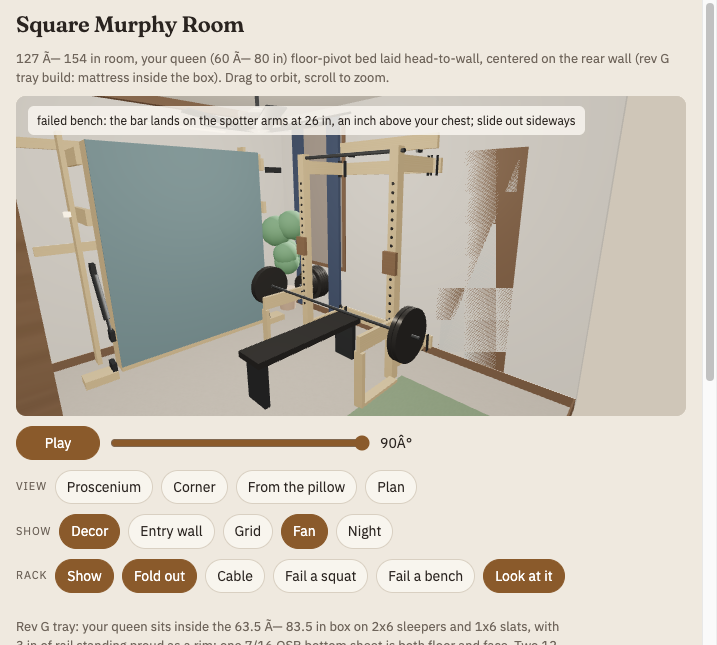
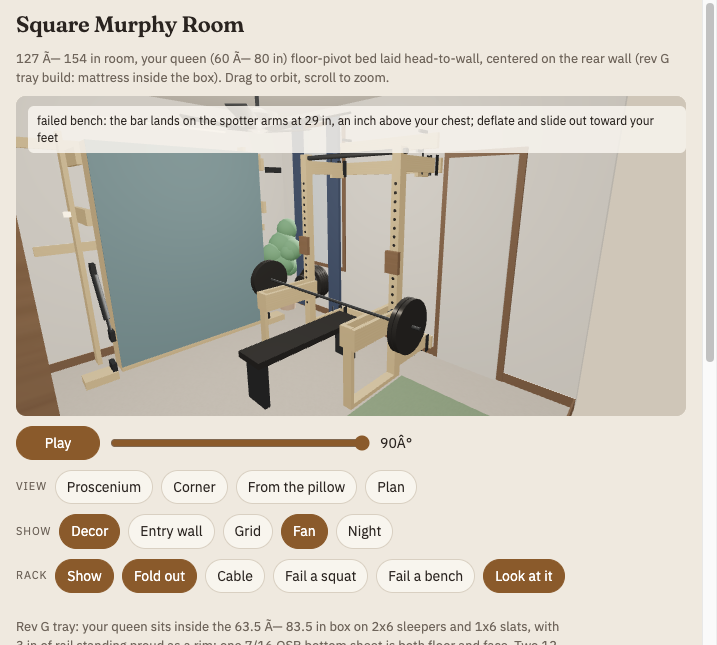
Rack: apply the independent review (24 in double-cheek arms, drop pins, 1-1/2 pipe, hinge tail, pads)
Generated with [Claude Code](https://claude.ai/code)
via [Happy](https://happy.engineering)

diff --git a/murphy-k7x2/g/rack/index.html b/murphy-k7x2/g/rack/index.html
@@ -30,14 +30,14 @@ ul,ol{padding-left:20px}
 
 <h2>0. What saves you when a lift fails (revised 23 Nov, afternoon)</h2>
 <p><b>The first version of this page was wrong about this.</b> It had one 2x6 plank across the post fronts on pins and called it the safety. The J-blocks are on the room side of the posts, so you unrack and step back into the room; a squat then descends 6 to 10 in in front of the post plane and a bench bar sits 8 to 12 in in front of it. The plank was in the post plane. The bar misses it. A power rack catches you because its safeties run front to back under the whole bar path; this rack has no depth on the room side, so it needs spotter arms.</p>
-<p><b>Spotter arms, with the load carried to the floor.</b> On each post: a 2x6 x 23.5 in arm on edge, lapping the post's outside face and bolted through two of the post holes with 1/2 in bolts, projecting 20 in in front of the post. A 2x4 leg from the arm's tip straight down to a 2x4 x 20 in foot bolted to the post base. A dropped bar lands on the arm, goes down the leg into the foot and the floor. The post sees almost no bending; the top hinge sees about 80 lb (a 300 lb drop at 20 in is 6,000 lb-in, resisted by the gate arms 73 in apart). Arms and feet fold with the posts and stay inside the post's footprint against the wall. Set the arms 2 in below your squat bottom, 1 in above your chest for bench; the lowest hole is now 18 in so a bench arm can sit at 25 in.</p>
-<div class="two"><div><img src="fail_squat.png" alt="Failed squat: bar resting on the spotter arms in front of the posts"><div style="color:var(--mute);font-size:13px">Failed squat: the bar comes off the J-blocks, moves out in front of the posts, descends, and lands on the arms at 44 in. You walk out from under it.</div></div>
-<div><img src="fail_bench.png" alt="Failed bench: bar resting on the spotter arms above the bench"><div style="color:var(--mute);font-size:13px">Failed bench: bench slid in head-first between the arms; the bar lands on the arms at 26 in, an inch above the chest. You slide out sideways.</div></div></div>
+<p><b>Spotter arms, with the load carried to the floor (as revised by the independent review, section 11).</b> On each post: two 2x8 x 27.5 in cheeks, one on each face of the post, bolted through two of the post holes with 1/2 in bolts 4.75 in apart so the bolts are in double shear, projecting 24 in in front of the post. A 2x4 leg, one length with holes every 1.5 in, pinned between the cheek tips at whichever hole puts its foot on the floor, standing on a 2x4 x 24 in foot pinned to the post base. A dropped bar lands on the cheeks, goes down the leg into the foot and the floor. The arms, leg and foot come off (four pins) and hang on hooks above the stringer when the rack folds. Set the arms 2 in below your squat bottom (36 in bottom, 43 in top) and 1 in above your chest for bench (21 in bottom, 28 in top). Arm holes are drilled for 1.5 in steps.</p>
+<div class="two"><div><img src="fail_squat.png" alt="Failed squat: bar resting on the spotter arms in front of the posts"><div style="color:var(--mute);font-size:13px">Failed squat: the bar comes off the J-blocks, moves 12 in out in front of the posts, descends, and lands on the 24 in arms at 44 in. You walk out from under it.</div></div>
+<div><img src="fail_bench.png" alt="Failed bench: bar resting on the spotter arms above the bench"><div style="color:var(--mute);font-size:13px">Failed bench: bench slid in head-first between the arms; the bar lands on the arms at 29 in, an inch above the chest. You deflate and slide out toward your feet.</div></div></div>
 <p>Both are animated in the room model: Rack, then "Fail a squat" or "Fail a bench". The plank survives only as the knee hold-down for the cable pulldown.</p>
 
 <h2>0b. Where everything lives when the rack is folded</h2>
 <img src="rack_stored.png" alt="Rack folded with plates on a peg under the window and the bar upright in the corner">
-<div style="color:var(--mute);font-size:13px;margin:4px 0 12px">Folded: posts, arms, legs and feet flat against the wall, 5 in deep. Plates on one 14 in peg under the window (360 lb on two lags, the cabinet goes elsewhere). Bar and pull-up pipe upright in the rear-right corner in a PVC floor cup with a clip at 78 in; that corner is free with the bed up or down. The plank on two hooks above the top stringer, 85 in up. Nothing on the floor.</div>
+<div style="color:var(--mute);font-size:13px;margin:4px 0 12px">Folded: posts flat against the wall, 5 in deep, 3 in apart (gate arms are 19 in for that). The spotter cheeks, legs and feet hang on a second pair of hooks above the plank. Plates on one 14 in peg under the window (360 lb on two lags, the cabinet goes elsewhere). Bar and pull-up pipe upright in the rear-right corner in a PVC floor cup with a clip at 78 in; that corner is free with the bed up or down. The plank on two hooks above the top stringer, 85 in up. Nothing on the floor.</div>
 
 <div class="two"><div><img src="rack_out.png" alt="Rack folded out with the bar racked, bed standing"><div class="m" style="color:var(--mute);font-size:13px">Out: bar on the J-blocks at 54 in, safety at 34 in, pull-up pipe at 82 in. Bed standing on the left.</div></div>
 <div><img src="rack_folded.png" alt="Rack folded flat against the right wall"><div class="m" style="color:var(--mute);font-size:13px">Folded: both posts swing inward and lie flat between the hinge lines, 5 in off the wall.</div></div></div>
@@ -56,18 +56,18 @@ ul,ol{padding-left:20px}
 <div class="wrap"><table>
 <tr><th>Part</th><th>Stock</th><th>Qty</th><th>Size</th><th>Notes</th></tr>
 <tr><td>Stringers</td><td>2x6</td><td>2</td><td>54 in</td><td>flat on the wall at 76 and 3 in (top edges 81.5 and 8.5); two 3/8 x 4 lags into every stud they cross (3 or 4 studs)</td></tr>
-<tr><td>Arms</td><td>2x6</td><td>4</td><td>21 in</td><td>on edge; hinge end bored 1/2 in for the pivot bolt, post end screwed and glued to the 4x4 with four 3 in screws</td></tr>
+<tr><td>Gate arms</td><td>2x6</td><td>4</td><td>21.25 in (19 in from pin to post plus a 2 in rounded tail)</td><td>on edge; pivot hole 2 in from the tail end with a 1/2 in ID steel sleeve (a short 3/8 pipe nipple) driven in so the pine does not oval; post end screwed and glued to the 4x4 with four 3 in screws; drop-pin hole 6 in from the pin</td></tr>
 <tr><td>Posts</td><td>4x4</td><td>2</td><td>84 in</td><td>1-1/16 in holes every 3 in from 18 to 72 in on the room face, 1-3/8 in notch at the top for the pipe; SE 59th gives away fence posts, otherwise $10 each new</td></tr>
-<tr><td>Hinge plates</td><td>1-1/2 x 1/8 in angle (the same bed frame)</td><td>8</td><td>7.5 in</td><td>two per hinge, one each side of the arm, bolted to the stringer end with two 3/8 x 3 bolts; the arm pivots between them on a 1/2 x 4 bolt with a nylock</td></tr>
-<tr><td>Stop blocks</td><td>2x4</td><td>4</td><td>6 in</td><td>screwed to the stringer each side of each top arm's square position; one carries the barrel-bolt hole</td></tr>
-<tr><td>Barrel bolts</td><td>4 in zinc</td><td>2</td><td></td><td>on the top arms, shoot into the stop block</td></tr>
-<tr><td>J-blocks</td><td>2x6</td><td>2</td><td>8 in</td><td>1-3/8 in notch sawn in the top edge for the bar; hang on two 3/4 in pins through block and post</td></tr>
+<tr><td>Hinge plates</td><td>1-1/2 x 1/8 in angle (the same bed frame)</td><td>8</td><td>7.5 in</td><td>two per hinge, one each side of the arm, bolted to the stringer end with two 3/8 x 3 bolts; the arm pivots between them on a 1/2 x 4 bolt with a nylock, pin 2-1/4 in off the stringer face</td></tr>
+<tr><td>Stop blocks</td><td>2x4</td><td>4</td><td>7.5 in</td><td>screwed to the stringer face beside each arm's square position, top and bottom; drilled 9/16 in vertically in line with the arm hole</td></tr>
+<tr><td>Drop pins (gate lock)</td><td>1/2 x 8 in steel pin with a ring</td><td>4</td><td></td><td>drop vertically through the arm into the stop block, top and bottom arm of each gate; gravity-held and visible, so a forgotten lock is obvious; replaces the barrel bolts</td></tr>
+<tr><td>J-blocks</td><td>2x6</td><td>2</td><td>8 in</td><td>1-3/8 in notch sawn in the top edge for the bar, lined with 1/8 in UHMW or stall-mat rubber; hang on two 3/4 in pins through block and post, pins at least 2 in below the notch bottom; a wear part</td></tr>
 <tr><td>Spotter arms</td><td>2x6</td><td>2</td><td>23.5 in</td><td>on edge, lapping the post's outside face by 3.5 in, two 1/2 x 5 in bolts through the post holes, 20 in projecting; set 2 in below your squat bottom or 1 in above your chest</td></tr>
 <tr><td>Spotter legs</td><td>2x4</td><td>2</td><td>cut to the arm height (about 20 in bench, 38 in squat; make two pairs)</td><td>under the arm tip, screwed to the arm and the foot; carries the dropped bar to the floor</td></tr>
 <tr><td>Feet</td><td>2x4</td><td>2</td><td>20 in</td><td>flat on the floor, bolted to the post base with a 3/8 x 5 in bolt; fold with the post</td></tr>
 <tr><td>Knee-pad plank (cable only)</td><td>2x6</td><td>1</td><td>50 in</td><td>on edge across the post fronts on the 26 in pins, wrapped in pipe insulation; a 13/16 in hole 3 in from each end drops over the pins</td></tr>
 <tr><td>Pins</td><td>3/4 in cold-rolled bar</td><td>6</td><td>6 in</td><td>one 36 in bar cut in six; 1-1/16 in holes give the 3/4 pins play; 4 for the J-blocks, 2 for the plank</td></tr>
-<tr><td>Pull-up bar</td><td>1-1/4 in schedule 40 black pipe</td><td>1</td><td>54 in</td><td>drops into the post-top notches; 1 in pipe is marginal at 300 lb mid-span, 1-1/4 is not</td></tr>
+<tr><td>Pull-up bar</td><td>1-1/2 in schedule 40 black pipe (1.9 in OD)</td><td>1</td><td>54 in</td><td>drops into 2 in wide, 2 in deep notches in the post tops with a 3/8 in pin through the cheeks over it; 1-1/4 pipe reaches yield under a 250 lb kipping pull-up (about 625 lb mid-span)</td></tr>
 <tr><td>Lags and bolts</td><td></td><td></td><td></td><td>16 x 3/8 x 4 lags, 4 x 1/2 x 4 bolts with nylocks and washers, 16 x 3/8 x 3 bolts with nuts for the plates, 3 in screws</td></tr>
 </table></div>
 
@@ -76,12 +76,15 @@ ul,ol{padding-left:20px}
 <tr><th>Check</th><th>Result</th></tr>
 <tr><td>Rated bar load</td><td>500 lb on the J-blocks (250 lb per post). The 4x4 in compression is good for several thousand pounds; the limit is the pins</td></tr>
 <tr><td>3/4 in pin, 250 lb at 1.5 in cantilever</td><td>375 lb-in, 9 ksi bending, yield 50 ksi. Bearing on the 4x4: 48 psi against 600 psi allowable</td></tr>
-<tr><td>Pull-up pipe, 300 lb mid-span, 48 in</td><td>1-1/4 sched 40: 15 ksi against 30 ksi yield. 1 in sched 40 would be 27 ksi, too close</td></tr>
-<tr><td>Spotter arm, 300 lb dropped at the tip</td><td>The leg takes it: a 2x4 in compression at 300 lb is at about 60 psi against 1,000 allowable. The two arm bolts see the small couple left over, under 200 lb each. The top hinge sees about 80 lb. Without the leg the post would see 840 psi static, double on impact, which is why the leg is not optional</td></tr>
+<tr><td>Pull-up pipe, kipping pull-up (2.5 x 250 lb = 625 lb mid-span, 48 in)</td><td>1-1/2 sched 40: 7,500 lb-in over S = 0.326 in³ is 23 ksi against 30 ksi yield. 1-1/4 would be 32 ksi, at yield; 1 in would bend</td></tr>
+<tr><td>Spotter arm, 300 lb dropped at the tip, with the leg</td><td>The leg takes it: a 2x4 in compression carries 1,500 lb at 40 in. The bolt pair sees the leftover, a few hundred pounds in double shear against about 600 lb allowable per bolt. Hinge load is trivial</td></tr>
+<tr><td>Spotter arm, 300 lb dropped at 20 in, leg forgotten</td><td>Bolt pair sees a 3,000 lb couple: failure, and the 2x6 would split out at the lower bolt. This is why the cheeks are 2x8, doubled, with the bolts 4.75 in apart in double shear, and why the leg is one length that fits every height, so there is no excuse to skip it</td></tr>
+<tr><td>Hinge bearing, 300 lb</td><td>400 psi on the wood, 2,400 psi on the two 1/8 in plates: fine. The 2 in tail and the steel sleeve stop the pin tearing out along the grain or ovalling the hole</td></tr>
+<tr><td>Carpet under the posts</td><td>20 psi, no problem, but the pad compresses 1/4 in before it bottoms, which would hand the bar load to the hinge bolts. The 6 x 6 plywood pads stop that</td></tr>
 <tr><td>Old cross plank as a safety</td><td>Does not catch a bar lifted in front of the posts. Demoted to the cable knee pad</td></tr>
 <tr><td>Hinge bolt, 1/2 in in double shear</td><td>several thousand pounds; sees under 150 lb from racking or kipping</td></tr>
 <tr><td>Stringer lags</td><td>6 to 8 lags per stringer at about 500 lb withdrawal each in a dry stud; worst case is a 200 lb kipping pull-up, under 150 lb sideways</td></tr>
-<tr><td>Fold geometry</td><td>Posts swing inward 90 deg; folded posts lie at 55 to 79 and 79 to 103 in along the wall, 5 in deep. Nothing in the swing path once the cabinet is moved</td></tr>
+<tr><td>Fold geometry</td><td>Posts swing inward 90 deg on 19 in arms; folded posts lie at 74 to 77.5 and 80.5 to 84 in along the wall, 3 in apart, 5 in deep (21 in arms would have overlapped by an inch). Spotter cheeks, legs and feet come off first; they would overlap each other folded</td></tr>
 <tr><td>Bed clash</td><td>Rack out: the bar runs along the right wall 28 in off it, so its plates reach 99 in from the left wall; the bed box edge is at 95 in, 4 in short of the plates with the bed down and 30 in short of the standing bed. Rack folded: 5 in deep, 27 in outside the bed box's edge. Checked in the room model at every bed angle; neither state touches the bed, and the out state is only used with the bed up anyway</td></tr>
 <tr><td>Fan</td><td>The rack is 60 in from the fan centre; overhead press inside the rack is clear of the 86 in glass only below the bar height, so press outside the fan's 20 in radius, which the rack position already does</td></tr>
 <tr><td>Bar length</td><td>7 ft bar overhangs the posts 18 in each side, 37 to 121 in from the entry wall; the closet door casing ends at 51 and the window glass is on the wall, so neither is touched</td></tr>
@@ -136,6 +139,21 @@ ul,ol{padding-left:20px}
 <div class="card"><b>$130 7 ft bar with a pair of Olympic dumbbell handles, OKC</b><a href="https://www.facebook.com/marketplace/item/1184167733944523/">facebook.com/marketplace/item/1184167733944523</a></div>
 <div class="card"><b>$1 to $3 cable machine pulleys, 90 mm, Warr Acres</b><div class="m">The cheapest way to the DIY cable: two with brackets for $6.</div><a href="https://www.facebook.com/marketplace/item/1544415880705942/">facebook.com/marketplace/item/1544415880705942</a></div>
 <p style="color:var(--mute);font-size:13px">A sensible first buy: the Yukon Weider set ($150, bar plus 198 lb) or the Edmond CAP pieces ($200, bar plus 180 lb), plus the Warr Acres pulleys. Rack, bar, 200 lb, cable and bands together land around $300 to $350.</p>
+
+<h2>11. Independent review, 23 Nov (Fable), and what changed</h2>
+<p>Verdict as submitted: <b>not as drawn</b>. "The concept is sound, but five details would let a real failure hurt someone." Every item below is now in the cut list and the model.</p>
+<div class="wrap"><table>
+<tr><th>Finding</th><th>Change made</th></tr>
+<tr><td>20 in arms are marginal: a two-step walkout puts the bar 18 to 26 in out, a bench "roll of shame" 16 to 22 in. Bench arm top at 25 in was below a lying adult's chest (26 to 28 in)</td><td>24 in projection (27.5 in cheeks, what commercial half-rack arms use); holes for 1.5 in steps; bench arm now 21 to 28 in</td></tr>
+<tr><td>Without the leg the single 2x6 arm's bolt pair sees a 3,000 lb couple and the lower bolt is 1.25 in from the loaded edge: it splits out. A leg cut to one height will be skipped at the other</td><td>2x8 cheeks on both faces of the post, bolts in double shear 4.75 in apart; one 44 in leg with holes every 1.5 in fits every arm height</td></tr>
+<tr><td>Hinge pin at the arm's end has zero end distance along the grain; pine pin holes oval with folding</td><td>2 in rounded tail past the pin, pin moved to 2-1/4 in off the stringer, 1/2 in ID steel sleeve driven into each arm</td></tr>
+<tr><td>Barrel bolts: two fixed blocks cannot bracket an inward-swinging arm; the pipe does not stop both gates parallelogramming; a forgotten bolt lets an off-centre re-rack swing the gate and drop the bar</td><td>Vertical drop pins through arm and stop block, top AND bottom arm of each gate, gravity-held and visible</td></tr>
+<tr><td>1-1/4 in pipe is 1.66 in OD, so a 1-3/8 notch does not fit it; at a kipping pull-up (about 625 lb mid-span) it is at yield</td><td>1-1/2 in sched 40 (1.9 in OD, 23 ksi), 2 x 2 in notch, 3/8 in pin over the pipe</td></tr>
+<tr><td>Carpet pad compresses 1/4 in before it bottoms, handing the bar load to the hinge bolts</td><td>6 x 6 x 3/4 in plywood pad under each post</td></tr>
+<tr><td>J-block notch will groove and chew knurl; block can shear along the grain if the pins are close under the notch</td><td>Notch lined with UHMW or stall-mat rubber; pins at least 2 in below the notch; treated as a wear part</td></tr>
+<tr><td>Folded clearance not verified: arms, legs and feet overlap along the wall</td><td>Checked: with 21 in gate arms the two folded posts overlapped by 1 in. Gate arms are now 19 in (posts 3 in apart); spotter assemblies come off and hang above the stringer</td></tr>
+</table></div>
+<p style="color:var(--mute);font-size:13px">Numbers quoted from the reviewer: hinge bearing 400 psi wood and 2,400 psi plate; 2x4 leg 1,500 lb capacity at 40 in; bolt pair without a leg 3,000 lb each against about 600 lb allowable; 1-1/2 pipe S = 0.326 in³. Single-arm drop with the leg: post twist about 2.5 in times 450 lb, trivial.</p>
 
 <h2>10. Bed material listings, re-checked 23 Nov 11:05</h2>
 <p>All still live: Newalla 2x10s at $15, the free pergola lot, the $10 OSB, both bed frames, the $4 2x6 lot, the SE 59th fence pile, and the new Moore and Bethany free piles. Full list on the <a href="../sourcing/">sourcing page</a>.</p>

diff --git a/murphy-k7x2/g/index.html b/murphy-k7x2/g/index.html
@@ -54,7 +54,7 @@ input[type=range]{width:min(260px,60vw);accent-color:var(--accent)}
   <div class="group"><span class="lbl">Rack</span>
     <button id="t-rack" class="on">Show</button><button id="t-rackout">Fold out</button><button id="t-cable">Cable</button><button id="b-fsquat">Fail a squat</button><button id="b-fbench">Fail a bench</button><button id="v-rack">Look at it</button></div>
 </div>
-<p class="facts">Rev G tray: your queen sits inside the 63.5 × 83.5 in box on 2x6 sleepers and 1x6 slats, with 3 in of rail standing proud as a rim; one 7/16 OSB bottom sheet is both floor and face. Two 12 V linear actuators lift it. Bed down reaches <b>102.5 in</b> from the rear wall and leaves <b>51.5 in</b> to the entry wall. Standing it is <b>86 in</b> tall and <b>25 in</b> deep. The swing's highest point (86 in) is 21 in from the rear wall; under the fan it passes 18 in below the light glass (86 in) and 12 in below the 20 in blade tips. No headboard; the rails are the rim. Door and window positions are Meciah's tape measurements of 15 Nov 2026; the window's height is still assumed. <b>Squat rack:</b> a gate-style fold-flat rack on the right wall between the closet door and the window: two 4x4 posts on 21 in 2x6 arms that swing on 1/2 in hinge bolts from two 2x6 stringers lagged to the studs. Folded it is 5 in off the wall; out, the bar sits 28 in off the wall and 102 in from the rear wall, clear of the standing bed and the window. Use it with the bed up only. <b>Cable:</b> one DIY setup is drawn, a lat pulldown: pulley 1 under the pull-up pipe, pulley 2 on a bracket off the top stringer, the loading pin and plates hanging against the wall, your flat bench inside the rack. In cable mode the safety drops to the 26 in pins and wears a length of pipe insulation: that is the knee hold-down, like the pad on a gym pulldown. The loading pin rests on the floor between sets so plates go on standing up. Move pulley 2 to the bottom arm pin for a low row. Blue comforter and blue blackout curtains added; the rack stringers stop at 104 in so the stacked curtain clears them. <b>What saves you:</b> spotter arms, not the plank. Each post carries a 2x6 arm bolted through two of its holes, with a 2x4 leg down to a 2x4 foot at the post base, so a dropped bar goes arm, leg, floor. Press "Fail a squat" or "Fail a bench" to watch the bar come off the J-blocks, move out in front of the posts and land on the arms. <b>Storage, rack folded:</b> plates on a 14 in peg under the window, bar and pull-up pipe upright in the rear-right corner in a floor cup with a clip at 78 in, the plank on two hooks above the top stringer. The spotter arms, legs and feet fold with the posts.</p>
+<p class="facts">Rev G tray: your queen sits inside the 63.5 × 83.5 in box on 2x6 sleepers and 1x6 slats, with 3 in of rail standing proud as a rim; one 7/16 OSB bottom sheet is both floor and face. Two 12 V linear actuators lift it. Bed down reaches <b>102.5 in</b> from the rear wall and leaves <b>51.5 in</b> to the entry wall. Standing it is <b>86 in</b> tall and <b>25 in</b> deep. The swing's highest point (86 in) is 21 in from the rear wall; under the fan it passes 18 in below the light glass (86 in) and 12 in below the 20 in blade tips. No headboard; the rails are the rim. Door and window positions are Meciah's tape measurements of 15 Nov 2026; the window's height is still assumed. <b>Squat rack:</b> a gate-style fold-flat rack on the right wall between the closet door and the window: two 4x4 posts on 21 in 2x6 arms that swing on 1/2 in hinge bolts from two 2x6 stringers lagged to the studs. Folded it is 5 in off the wall; out, the bar sits 28 in off the wall and 102 in from the rear wall, clear of the standing bed and the window. Use it with the bed up only. <b>Cable:</b> one DIY setup is drawn, a lat pulldown: pulley 1 under the pull-up pipe, pulley 2 on a bracket off the top stringer, the loading pin and plates hanging against the wall, your flat bench inside the rack. In cable mode the safety drops to the 26 in pins and wears a length of pipe insulation: that is the knee hold-down, like the pad on a gym pulldown. The loading pin rests on the floor between sets so plates go on standing up. Move pulley 2 to the bottom arm pin for a low row. Blue comforter and blue blackout curtains added; the rack stringers stop at 104 in so the stacked curtain clears them. <b>What saves you:</b> spotter arms, not the plank. Each post carries a pair of 2x8 cheeks, one on each face, bolted through two of its holes with the bolts in double shear and projecting 24 in, plus a 2x4 leg from the arm tip to a foot at the post base, so a dropped bar goes arm, leg, floor. Gate locks are vertical drop pins top and bottom. Pull-up pipe is 1-1/2 in schedule 40, pinned in a 2 in notch. These are the fixes from the 23 Nov independent review. Press "Fail a squat" or "Fail a bench" to watch the bar come off the J-blocks, move out in front of the posts and land on the arms. <b>Storage, rack folded:</b> plates on a 14 in peg under the window, bar and pull-up pipe upright in the rear-right corner in a floor cup with a clip at 78 in, the plank on two hooks above the top stringer. The spotter arms, legs and feet fold with the posts.</p>
 
 <script src="https://cdnjs.cloudflare.com/ajax/libs/three.js/r128/three.min.js"></script>
 <script>
@@ -194,33 +194,39 @@ const grid=new THREE.Group(); scene.add(grid); grid.visible=false;
 
 // ---------- fold-flat squat rack on the right wall (gate style: each post swings on a hinge line at the wall) ----------
 const rack=new THREE.Group(); scene.add(rack);
-const rkY=[55,103], rkArm=21, rkPost=3.5, rkStrY0=52, rkStrL=52;   /* stringers 52 to 104: the curtain stack starts at 105 */
+const rkY=[55,103], rkArm=19, rkPost=3.5, rkStrY0=52, rkStrL=52;   /* 19 in gate arms: folded posts sit at 74-77.5 and 80.5-84, 3 in apart (21 in arms overlapped by 1 in) */   /* stringers 52 to 104: the curtain stack starts at 105 */
 [76,3].forEach(z=>box(rack, R.X-1.5,rkStrY0,z, 1.5,rkStrL,5.5, M.pine));          // two 2x6 x 54 in stringers, lagged into every stud
-const gates=rkY.map((hy,i)=>{ const g=new THREE.Group(); g.position.copy(P(R.X-3.25,hy,0)); rack.add(g);   /* hinge pin 1-3/4 in off the stringer face so the folded post clears the stringer */
+const lockBlocks=[]; const gates=rkY.map((hy,i)=>{ const g=new THREE.Group(); g.position.copy(P(R.X-3.75,hy,0)); rack.add(g);   /* hinge pin 2-1/4 in off the stringer face: room for the arm's 2 in tail; folded post clears the stringer */
   const L=(x,y,z,dx,dy,dz,m)=>box(g, x,y,z, dx,dy,dz, m);                         /* local plan coords, hinge at the origin, the room is toward -x */
-  [76,3].forEach(z=>L(-rkArm,-0.75,z, rkArm,1.5,5.5, M.pine));                    /* 2x6 x 21 in arms, top and bottom */
+  [76,3].forEach(z=>L(-rkArm,-0.75,z, rkArm+2.25,1.5,5.5, M.pine));               /* 2x6 arms with a 2 in rounded tail past the hinge pin */
   L(-rkArm-rkPost,-rkPost/2,0, rkPost,rkPost,84, M.pine);                           /* 4x4 x 84 in post, standing on the floor */
   for(let z=18;z<=72;z+=3){ const h=new THREE.Mesh(new THREE.CylinderGeometry(0.55,0.55,rkPost+0.3,10),M.black); h.rotation.z=Math.PI/2; h.position.copy(P(-rkArm-rkPost/2,0,z)); g.add(h); }   /* 1-1/16 in pin holes every 3 in, 18 to 72 */
   g.userData.j=L(-rkArm-rkPost-1.5,-2.75,49, 1.5,5.5,8, M.walnut);                    /* 2x6 J-block hung on two pins; height set per lift */
-  [76,3].forEach(z=>{ const k=new THREE.Mesh(new THREE.CylinderGeometry(0.4,0.4,7.5,10),M.steel); k.position.copy(P(0,0,z+2.75)); g.add(k); L(0,-2,z-1, 1.75,0.25,7.5, M.steel); L(0,1.75,z-1, 1.75,0.25,7.5, M.steel); });   /* 1/2 in hinge bolt through two bed-frame angle plates */
-  g.userData.dir = i===0? -1 : 1; return g; });
+  [76,3].forEach(z=>{ const k=new THREE.Mesh(new THREE.CylinderGeometry(0.4,0.4,7.5,10),M.steel); k.position.copy(P(0,0,z+2.75)); g.add(k); L(0,-2,z-1, 2.25,0.25,7.5, M.steel); L(0,1.75,z-1, 2.25,0.25,7.5, M.steel); });   /* 1/2 in hinge bolt through two bed-frame angle plates */
+  g.userData.dir = i===0? -1 : 1;
+  [76,3].forEach(z=>{ const pin=new THREE.Mesh(new THREE.CylinderGeometry(0.3,0.3,9,10),M.steel); pin.position.copy(P(-6,0,z+2.75+1)); g.add(pin); });   /* 1/2 in drop pins through arm and stop block, gravity-held and visible */
+  [76,3].forEach(z=>box(rack, R.X-3.75-7.5, hy+(i===0?0.75:-2.25), z-1.5, 7.5,1.5,1.5, M.pine));   /* 2x4 stop blocks on the stringer face beside the arms' square position, drilled for the drop pins */
+  return g; });
 const rackLoad=new THREE.Group(); rack.add(rackLoad);
-const rkPostX=R.X-3.25-rkArm-rkPost, barX=rkPostX-1.5+0.6, barY=79;
+const rkPostX=R.X-3.75-rkArm-rkPost, barX=rkPostX-1.5+0.6, barY=79;
 const barGrp=new THREE.Group(); rackLoad.add(barGrp);
 { const bar=new THREE.Mesh(new THREE.CylinderGeometry(0.55,0.55,84,14),M.steel); bar.rotation.x=Math.PI/2; barGrp.add(bar);
   for(const dy of [-38.5,-36.8,36.8,38.5]){ const pl=new THREE.Mesh(new THREE.CylinderGeometry(8.85,8.85,1.4,28),M.black); pl.rotation.x=Math.PI/2; pl.position.set(0,0,-dy); pl.castShadow=true; barGrp.add(pl); } }   /* bar with four 45s */
 function placeBar(x,z){ barGrp.position.copy(P(x,barY,z)); }
 function setJ(jz){ gates.forEach(g=>{ g.userData.j.position.y=jz+4; }); }
 const safety=box(rackLoad, rkPostX-1.5, rkY[0]+rkPost/2, 26, 1.5,rkY[1]-rkY[0]-rkPost,5.5, M.pine); safety.visible=false;   /* the 2x6 cross plank is the cable knee pad only; it does not catch a bar lifted in front of the posts */
-const pu=new THREE.Mesh(new THREE.CylinderGeometry(0.67,0.67,rkY[1]-rkY[0]+6,12),M.steel); pu.rotation.x=Math.PI/2; pu.position.copy(P(rkPostX+rkPost/2,barY,82.5)); rackLoad.add(pu);   /* 1-1/4 in pipe pull-up bar */
+const pu=new THREE.Mesh(new THREE.CylinderGeometry(0.95,0.95,rkY[1]-rkY[0]+6,12),M.steel); pu.rotation.x=Math.PI/2; pu.position.copy(P(rkPostX+rkPost/2,barY,82.5)); rackLoad.add(pu);   /* 1-1/2 in sched 40 pipe (1.9 OD) in a 2 x 2 in notch, pinned */
 /* spotter arms: on each gate, a 2x6 x 23.5 in arm lapping the post's outside face, bolted through two post holes, a 2x4 leg from its tip to a 2x4 x 20 in foot bolted to the post base. A dropped bar goes arm, leg, foot, floor. */
-const spotters=gates.map((g,i)=>{ const side=i===0?-1:1, ay=side>0?1.75:-3.25, x0=-rkArm-rkPost-20;
-  const sp=new THREE.Group(); g.add(sp);
-  box(sp, x0,ay,0, 23.5,1.5,5.5, M.pine);
-  for(const z of [1.25,4.25]){ const p=new THREE.Mesh(new THREE.CylinderGeometry(0.3,0.3,7,10),M.steel); p.rotation.z=Math.PI/2; p.position.copy(P(-rkArm-rkPost/2,0,z)); sp.add(p); }   /* two 1/2 in bolts through arm and post */
-  const ly=side>0?ay-2:ay; const leg=box(g, x0,ly,0, 1.5,3.5,1, M.pine); const foot=box(g, x0,ly,0, 20,3.5,1.5, M.pine);   /* leg and foot kept inside the post's wall-side face so they clear the drywall when folded */
+const spotters=gates.map((g,i)=>{ const side=i===0?-1:1, ay=side>0?1.75:-3.25, x0=-rkArm-rkPost-24;
+  const sp=new THREE.Group(); g.add(sp); g.userData.sp=sp;
+  box(sp, x0,-3.25,0, 27.5,1.5,7.25, M.pine); box(sp, x0,1.75,0, 27.5,1.5,7.25, M.pine);   /* 2x8 cheeks on both faces of the post, 24 in projecting; bolts in double shear */
+  for(const z of [1.25,6]){ const p=new THREE.Mesh(new THREE.CylinderGeometry(0.3,0.3,8.5,10),M.steel); p.rotation.z=Math.PI/2; p.position.copy(P(-rkArm-rkPost/2,0,z)); sp.add(p); }   /* two 1/2 in bolts through both cheeks and the post, 4.75 in apart */
+  box(sp, x0,-1.75,-0.1, 1.5,3.5,7.45, M.pine);   /* the 2x4 leg's upper end, pinned between the cheek tips at whichever hole puts its foot on the floor */
+  box(g, -rkArm-rkPost-1.25,-3,-0.75, 6,6,0.75, M.ply);   /* 6 x 6 x 3/4 plywood pad under the post so the post, not the hinge, carries the bar */
+  const leg=box(g, x0,-1.75,0, 1.5,3.5,1, M.pine); const foot=box(g, x0,-1.75,0, 24,3.5,1.5, M.pine); g.userData.foot=foot;   /* 2x4 leg (one length, holes every 1.5 in) and a 2x4 foot pinned to the post base; both come off with the arms when folding */
   return {sp,leg}; });
 function setSpotters(h){ spotters.forEach(({sp,leg})=>{ sp.position.y=h; leg.scale.y=h; leg.position.y=h/2; }); }
+function showSpotters(on){ spotters.forEach(({sp,leg})=>{ sp.visible=on; leg.visible=on; }); gates.forEach(g=>g.userData.foot.visible=on); }
 /* the flat bench, slid in head-first for bench press and the cable */
 const bench=new THREE.Group(); rackLoad.add(bench); bench.visible=false;
 box(bench, 56,barY-6,15.5, 48,12,2.2, M.black); [58,100].forEach(x=>box(bench, x,barY-5,0, 2,10,15.5, M.steel));
@@ -244,18 +250,19 @@ const store=new THREE.Group(); rack.add(store);
   const sbar=new THREE.Mesh(new THREE.CylinderGeometry(0.55,0.55,84,14),M.steel); sbar.position.copy(P(R.X-5,R.Y-4,42)); store.add(sbar); store.userData.sbar=sbar;
   const spipe=new THREE.Mesh(new THREE.CylinderGeometry(0.67,0.67,54,12),M.steel); spipe.position.copy(P(R.X-9,R.Y-4,27)); store.add(spipe); store.userData.spipe=spipe;
   const cup=new THREE.Mesh(new THREE.CylinderGeometry(2.2,2.2,3,16),M.white); cup.position.copy(P(R.X-7,R.Y-4,1.5)); store.add(cup); box(store, R.X-12,R.Y-1.5,78, 10,1.5,3, M.steel,false);   /* floor cup and top clip */
-  store.userData.plank=box(store, R.X-3.2,rkY[0]-2,85, 1.5,rkY[1]-rkY[0]+4-1.5,5.5, M.pine); [rkY[0]+6,rkY[1]-6].forEach(y=>box(store, R.X-3.5,y,84, 3.5,1,1, M.steel,false)); }
+  store.userData.plank=box(store, R.X-3.2,rkY[0]-2,85, 1.5,rkY[1]-rkY[0]+4-1.5,5.5, M.pine); [rkY[0]+6,rkY[1]-6].forEach(y=>box(store, R.X-3.5,y,84, 3.5,1,1, M.steel,false));
+  const sarms=new THREE.Group(); store.add(sarms); store.userData.sarms=sarms; [[rkY[0]-1,0],[rkY[1]-27.5,1]].forEach(([y,k])=>{ box(sarms, R.X-3.2,y,92, 1.5,27.5,7.25, M.pine); box(sarms, R.X-4.9,y,92, 1.5,27.5,7.25, M.pine); }); [rkY[0]+4,rkY[1]-4].forEach(y=>box(store, R.X-5.5,y,91, 5.5,1,1, M.steel,false)); }   /* the two spotter-arm assemblies hang on a second pair of hooks above the plank when the rack is folded */
 function setCable(on){ cable.visible=on; safety.visible=on; store.userData.plank.visible=!on; barGrp.visible=!on; bench.visible=on||failMode==='bench'; }
 /* failed-lift demos: the bar leaves the J-blocks, moves out in front of the posts, comes down, and lands on the spotter arms */
 const FAIL={
-  squat:{j:49, h:37.75, path:[[barX,54.6,0],[94,56.5,0.8],[92,58,1.4],[92,50,2.4],[92,44.8,3.1],[92,43.8,3.4],[92,43.8,7]], msg:'failed squat: the bar lands on the spotter arms at 44 in, just below your bottom position; walk out from under it'},
-  bench:{j:41, h:19.75, path:[[barX,46.6,0],[91,49.5,0.8],[90,50,1.4],[90,38,2.4],[90,27,3.1],[90,25.8,3.4],[90,25.8,7]], msg:'failed bench: the bar lands on the spotter arms at 26 in, an inch above your chest; slide out sideways'} };
+  squat:{j:49, h:36, path:[[barX,54.6,0],[92,56.5,0.8],[88,58,1.4],[88,50,2.4],[88,44.8,3.1],[88,43.8,3.4],[88,43.8,7]], msg:'failed squat: the bar lands on the 24 in spotter arms at 44 in, just below your bottom position; walk out from under it'},
+  bench:{j:41, h:21, path:[[barX,46.6,0],[91,49.5,0.8],[90,50,1.4],[90,38,2.4],[90,30,3.1],[90,28.8,3.4],[90,28.8,7]], msg:'failed bench: the bar lands on the spotter arms at 29 in, an inch above your chest; deflate and slide out toward your feet'} };
 let failMode=null, failT=0;
 function startFail(mode){ failMode=mode; failT=0; const f=FAIL[mode]; setJ(f.j); setSpotters(f.h); if(cable.visible){ document.getElementById('t-cable').classList.remove('on'); setCable(false);} bench.visible=mode==='bench'; document.getElementById('t-rackout').classList.add('on'); foldT=1; setFold(1); setView('rack'); }
 function stepFail(dt){ if(!failMode) return; failT+=dt; const p=FAIL[failMode].path; let i=0; while(i<p.length-2 && failT>p[i+1][2]) i++; const a=p[i], b=p[i+1]; const u=Math.min(1,Math.max(0,(failT-a[2])/(b[2]-a[2]))); placeBar(a[0]+(b[0]-a[0])*u, a[1]+(b[1]-a[1])*u); }
-setJ(49); setSpotters(37.75); placeBar(barX,54.6);
+setJ(49); setSpotters(36); placeBar(barX,54.6);
 let foldF=0, foldT=0;
-function setFold(f){ foldF=f; gates.forEach(g=>g.rotation.y=g.userData.dir*(1-f)*Math.PI/2); rackLoad.visible=f>0.98; store.userData.sbar.visible=store.userData.spipe.visible=f<0.02; }
+function setFold(f){ foldF=f; gates.forEach(g=>g.rotation.y=g.userData.dir*(1-f)*Math.PI/2); rackLoad.visible=f>0.98; store.userData.sbar.visible=store.userData.spipe.visible=f<0.02; showSpotters(f>0.98); store.userData.sarms.visible=f<0.02; }
 setFold(0);
 
 // ---------- fan ----------
@@ -314,8 +321,8 @@ toggle('t-decor', on=>decor.visible=on);
 toggle('t-wall', on=>entryWall.visible=on); entryWall.visible=false;
 toggle('t-grid', on=>grid.visible=on);
 toggle('t-rack', on=>rack.visible=on);
-toggle('t-rackout', on=>{ foldT=on?1:0; if(!on){ failMode=null; placeBar(barX,54.6); setJ(49); setSpotters(37.75); bench.visible=cable.visible; setAngle(angle); } });
-toggle('t-cable', on=>{ if(on){ failMode=null; placeBar(barX,54.6); setJ(49); setSpotters(37.75);} setCable(on); });
+toggle('t-rackout', on=>{ foldT=on?1:0; if(!on){ failMode=null; placeBar(barX,54.6); setJ(49); setSpotters(36); bench.visible=cable.visible; setAngle(angle); } });
+toggle('t-cable', on=>{ if(on){ failMode=null; placeBar(barX,54.6); setJ(49); setSpotters(36);} setCable(on); });
 document.getElementById('b-fsquat').addEventListener('click',()=>startFail('squat'));
 document.getElementById('b-fbench').addEventListener('click',()=>startFail('bench'));
 window.__rack={startFail, setFailT:t=>{failT=t; stepFail(0);} };
